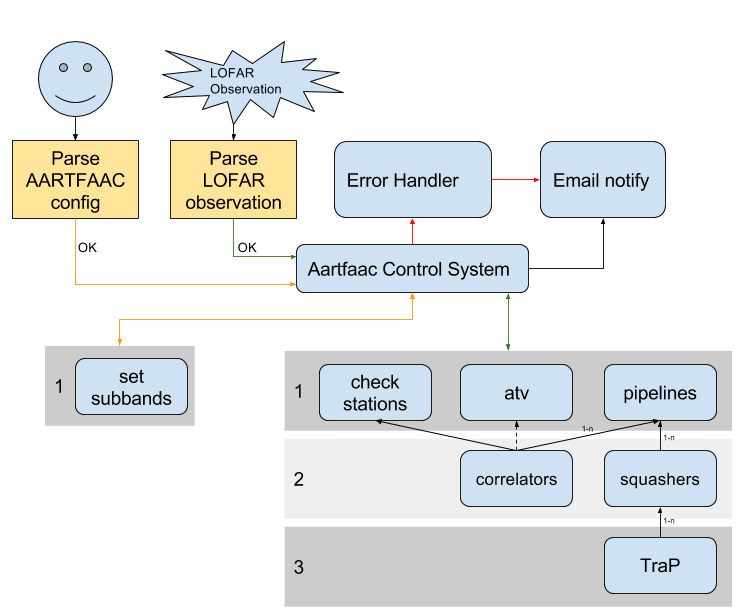
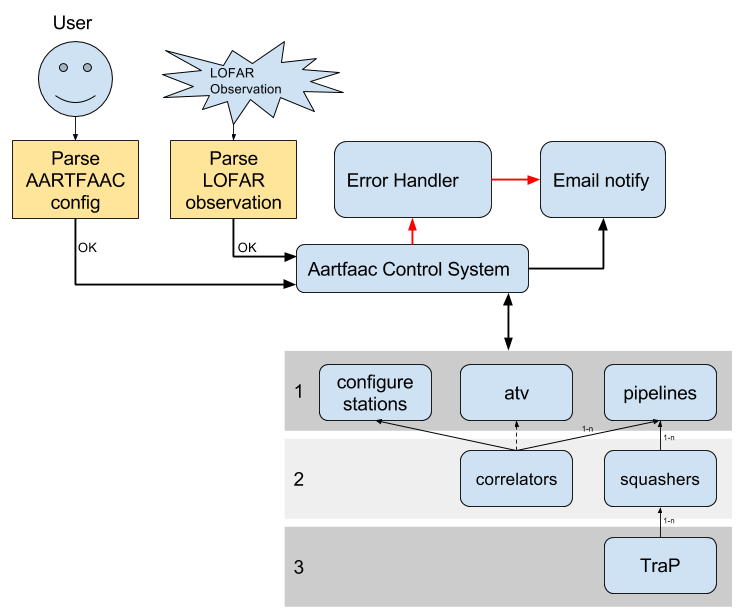
Updated performance section, deleted section on parallelization and sharing with LOFAR. 	modified:   Figs/afaac_ctrl_system.png 	modified:   aartfaac_sys_design_jai.tex

diff --git a/aartfaac_sys_design_jai.tex b/aartfaac_sys_design_jai.tex
@@ -21,7 +21,7 @@
 
 \title{The AARTFAAC Radio Sky Monitor: System Design and Implementation}
 
-\author{Peeyush Prasad$^\dagger$, Folkert Huizinga$^\S$, Eric Kooistra$^\ddagger$, Daniel van der Schuur $^\ddagger$, Andre Gunst $^\ddagger$, John Romein $^\ddagger$, Mark Kuiack $^\S$, Gijs Molenaar $^\S$ and R.A.M.J. Wijers$^\S$}
+\author{Peeyush Prasad$^\dagger$, Folkert Huizinga$^\S$, Eric Kooistra$^\ddagger$, Daniel van der Schuur $^\ddagger$, Andre Gunst $^\ddagger$, John Romein $^\ddagger$, Mark Kuiack $^\S$, Gijs Molenaar $^\S$ and Ralph Wijers$^\S$}
 
 \address{
 $^\dagger$Anton Pannekoek Institute, University of Amsterdam, Amsterdam, The Netherlands, p.prasad@uva.nl\\
@@ -1018,7 +1018,8 @@ GPU correlation & 212.9 & 4.824  \\
 Online flagging & 74.3 &  & Thresholding visibility amplitudes across time and frequency\\
 Calibration & 249 & & Both XX and YY pols, calibrating 63 channels.\\
  \colrule
-Total & 571 & & Measured latency upto calibration: 1100ms \\ \colrule
+Total & 571 & & \textbf{Measured latency on production systems} \\
+ & & & \textbf {(upto calibration): 1100ms} \\ \colrule
 
 Imaging & 40 & TODO & Gridding and FFT for 1 Stokes-I image per subband.\\ 
 TraP & 696 & TODO & Measured with 4 input subbands on non-production desktop.\\ \colrule
@@ -1067,45 +1068,75 @@ TraP & 696 & TODO & Measured with 4 input subbands on non-production desktop.\\ 
 %% source parameters are then recorded into a database for every timeslice, and the
 %% timeseries is further analyzed for variability and for detecting transients.
 
-\noindent \textbf  {Parallelization axis:}  Parallelization to handle  the compute
-requirements can be carried out along  the temporal, spectral or spatial axis of
-the incoming  data.  Organizing timeslices  for parallel processing can  lead to
-latencies, which is inconsistent with the real-time requirement of AARTFAAC. The
-spatially  distributed dipoles  result  in each  dipole  stream being  initially
-processed  independently of  each other.   The correlation  process retains  the
-spatial independence  since the generated  covariance matrix can be  split along
-dipoles.   However,  the  processing  requires  alignment  along  the  time  and
-frequency axis,  and further analysis  (imaging) fuses the spatial  axis.  Thus,
-the  frequency axis  is  the  only truly  independent  axis  along the  complete
-processing chain, with each subband or channel being processed independently.
+%% \noindent \textbf  {Parallelization axis:}  Parallelization to handle  the compute
+%% requirements can be carried out along  the temporal, spectral or spatial axis of
+%% the incoming  data.  Organizing timeslices  for parallel processing can  lead to
+%% latencies, which is inconsistent with the real-time requirement of AARTFAAC. The
+%% spatially  distributed dipoles  result  in each  dipole  stream being  initially
+%% processed  independently of  each other.   The correlation  process retains  the
+%% spatial independence  since the generated  covariance matrix can be  split along
+%% dipoles.   However,  the  processing  requires  alignment  along  the  time  and
+%% frequency axis,  and further analysis  (imaging) fuses the spatial  axis.  Thus,
+%% the  frequency axis  is  the  only truly  independent  axis  along the  complete
+%% processing chain, with each subband or channel being processed independently.
 
-Parallelization at different levels in the hierarchy is matched to the available
-hardware architecture.  At upstream levels, the FPGAs operate in lock-step, with
-no dynamic scheduling of data to processing units. An important task here is the
-reorganizing of data along the frequency  axis such that the architecture of the
-computationally intense components (correlation) can  be fully utilized. The CPU
-offers   both  SIMD   via   vectored  instructions,   and   MIMD  via   multiple
-cores.\footnote  {Flynn's  taxonomy:  SIMD=Single  Instruction,  Multiple  Data,
-  MIMD=Multiple  Instruction,  Multiple Data}  [TODO:  What  is MIMD  used  here
-  for?]. The  GPU offers  operations on  loosely coupled  data via  its multiple
-compute units,
+%% Parallelization at different levels in the hierarchy is matched to the available
+%% hardware architecture.  At upstream levels, the FPGAs operate in lock-step, with
+%% no dynamic scheduling of data to processing units. An important task here is the
+%% reorganizing of data along the frequency  axis such that the architecture of the
+%% computationally intense components (correlation) can  be fully utilized. The CPU
+%% offers   both  SIMD   via   vectored  instructions,   and   MIMD  via   multiple
+%% cores.\footnote  {Flynn's  taxonomy:  SIMD=Single  Instruction,  Multiple  Data,
+%%   MIMD=Multiple  Instruction,  Multiple Data}  [TODO:  What  is MIMD  used  here
+%%   for?]. The  GPU offers  operations on  loosely coupled  data via  its multiple
+%% compute units,
 
-Since the data  from all dipoles is time and  frequency aligned when correlation
-occurs,  parallelization  is fundamentally  on  the  frequency axis,  with  each
-subband being processed  independently.  Within a subband, each  station data is
-processed  independently till  the  correlation stage,  where a  synchronization
-barrier is applied  to time align all  the dipole streams.  Each  channel of the
-subband  correlation matrix  is also  processed independently  via a  GPU thread
-group.  Further, a single channel covariance  matrix is broken into cells, which
-are also computed independently.\\
+%% Since the data  from all dipoles is time and  frequency aligned when correlation
+%% occurs,  parallelization  is fundamentally  on  the  frequency axis,  with  each
+%% subband being processed  independently.  Within a subband, each  station data is
+%% processed  independently till  the  correlation stage,  where a  synchronization
+%% barrier is applied  to time align all  the dipole streams.  Each  channel of the
+%% subband  correlation matrix  is also  processed independently  via a  GPU thread
+%% group.  Further, a single channel covariance  matrix is broken into cells, which
+%% are also computed independently.\\
 
 
 \noindent \textbf {System performance:} The overall performance of the real-time
-system is quantified by the achieved latency, and any drops in throughput due to
-intermittent processing delays. Our overall average latency has been found to be
-TODO secs, while throughput is maintained due to bounded processing. The breakup
-of   the   latency,   and   associated   computing   is   presented   in   Table
-\ref{tab:afaac_latency}.\\
+system  is quantified  by  the achieved  latency. Table  \ref{tab:afaac_latency}
+presents  the  measured  compute  time  for various  functional  blocks  of  the
+system. These  results have been  obtained for  the 6-station system,  since the
+calibration  and  imaging  component  of  the 12-station  system  has  not  been
+commissioned yet.  Thus, extrapolations on  the computation have  been generated
+for the 12-station  system. All reported times have been  measured on production
+systems, except for the TraP.
+
+Here,  we  see  that  the  most   compute  intensive  functional  block  is  the
+calibration,  whose compute  footprint  is dominated  by  the Weighted  Subspace
+Fitting model source position determination sub-block. Alternative approaches to
+this algorithm implementation will be  explored to reduce this cost. Calibration
+latency can also  vary based on the observing conditions  like RFI occupancy and
+the  presence of  the flaring  Sun. We  set an  upper limit  to the  calibration
+iterations, trading off instrumental sensitivity to maintain latency.
+
+The next  compute intensive component is  the correlator itself. Its  latency is
+independent of missing  or poor quality data, since the  collated data buffer is
+processed based on wall-clock time. Thread binding to CPU cores prevents process
+migration,  and  the absence  of  competing  processes reduce  operating  system
+induced non-deterministic latencies.
+
+For the 6-station system, we measure a latency of ~1.1second to calibrated image
+generation, on production hardware. This is about twice as expected from timings
+of the compute  blocks. The remaining latency occupancy includes  times taken by
+all compute blocks, as well as network and memory operation latencies. We expect
+this  to  grow  by factors  of  2-3  in  anticipation  of the  more  complicated
+calibration and imaging scheme for the 12-station AARTFAAC.
+
+A streaming variant  of the TraP is still being  commissioned. Current profiling
+reveals that  the source finding step  takes ~30\% of user  time, while database
+operations to update the light curves  of detected sources take about 15\%. Both
+these operations scale linearly with the number of detected sources in an image,
+and thus  latencies on the  12-station images are  expected to be  only slightly
+more.
 
 \noindent  \textbf   {AARTFAAC  Scalability:}   The  AARTFAAC   All-Sky  monitor
 implementation  can be  scaled  up  along the  spatial  (number  of dipoles)  or
@@ -1130,18 +1161,18 @@ stations in addition to  the two mentioned here would likely  require data to be
 transferred  between  multiple  CPUs  over  the  GigE  network,  which  will  be
 prohibitively slow.\\
 
-\noindent  \textbf {Impact  of sharing  dipoles with  LOFAR on  AARTFAAC:} LOFAR
-operates using  either the LBA  or the  HBA antenna at  a time. Further,  due to
-limited station level electronics for stations within the core, only a subset of
-the available  station dipoles can be  utilized. This implies that  the AARTFAAC
-telescope  is  dependent  on  LOFAR  for  the  choice  of  antenna  and  station
-configuration,  reducing the  availability  for all-sky  monitoring. Within  the
-station, only the LBA\_OUTER station  configuration is currently deemed suitable
-for  real-time imaging.   This mode  of  LOFAR operation  favorable to  AARTFAAC
-depends on  the observing  schedule and the  proposed observations.   Table TODO
-shows some  statistics from previous cycles  on the fraction of  observing modes
-favorable to AARTFAAC. Based on this, it may be reasonable to expect AARTFAAC to
-operate TODO fraction of time, typically.\\
+%% \noindent  \textbf {Impact  of sharing  dipoles with  LOFAR on  AARTFAAC:} LOFAR
+%% operates using  either the LBA  or the  HBA antenna at  a time. Further,  due to
+%% limited station level electronics for stations within the core, only a subset of
+%% the available  station dipoles can be  utilized. This implies that  the AARTFAAC
+%% telescope  is  dependent  on  LOFAR  for  the  choice  of  antenna  and  station
+%% configuration,  reducing the  availability  for all-sky  monitoring. Within  the
+%% station, only the LBA\_OUTER station  configuration is currently deemed suitable
+%% for  real-time imaging.   This mode  of  LOFAR operation  favorable to  AARTFAAC
+%% depends on  the observing  schedule and the  proposed observations.   Table TODO
+%% shows some  statistics from previous cycles  on the fraction of  observing modes
+%% favorable to AARTFAAC. Based on this, it may be reasonable to expect AARTFAAC to
+%% operate TODO fraction of time, typically.\\
 
 \noindent \textbf {Hierarchical  shuffling and transpose of  incoming data:} The
 voltages  are available  as a  sampled  timeseries per  polarization, with  time
